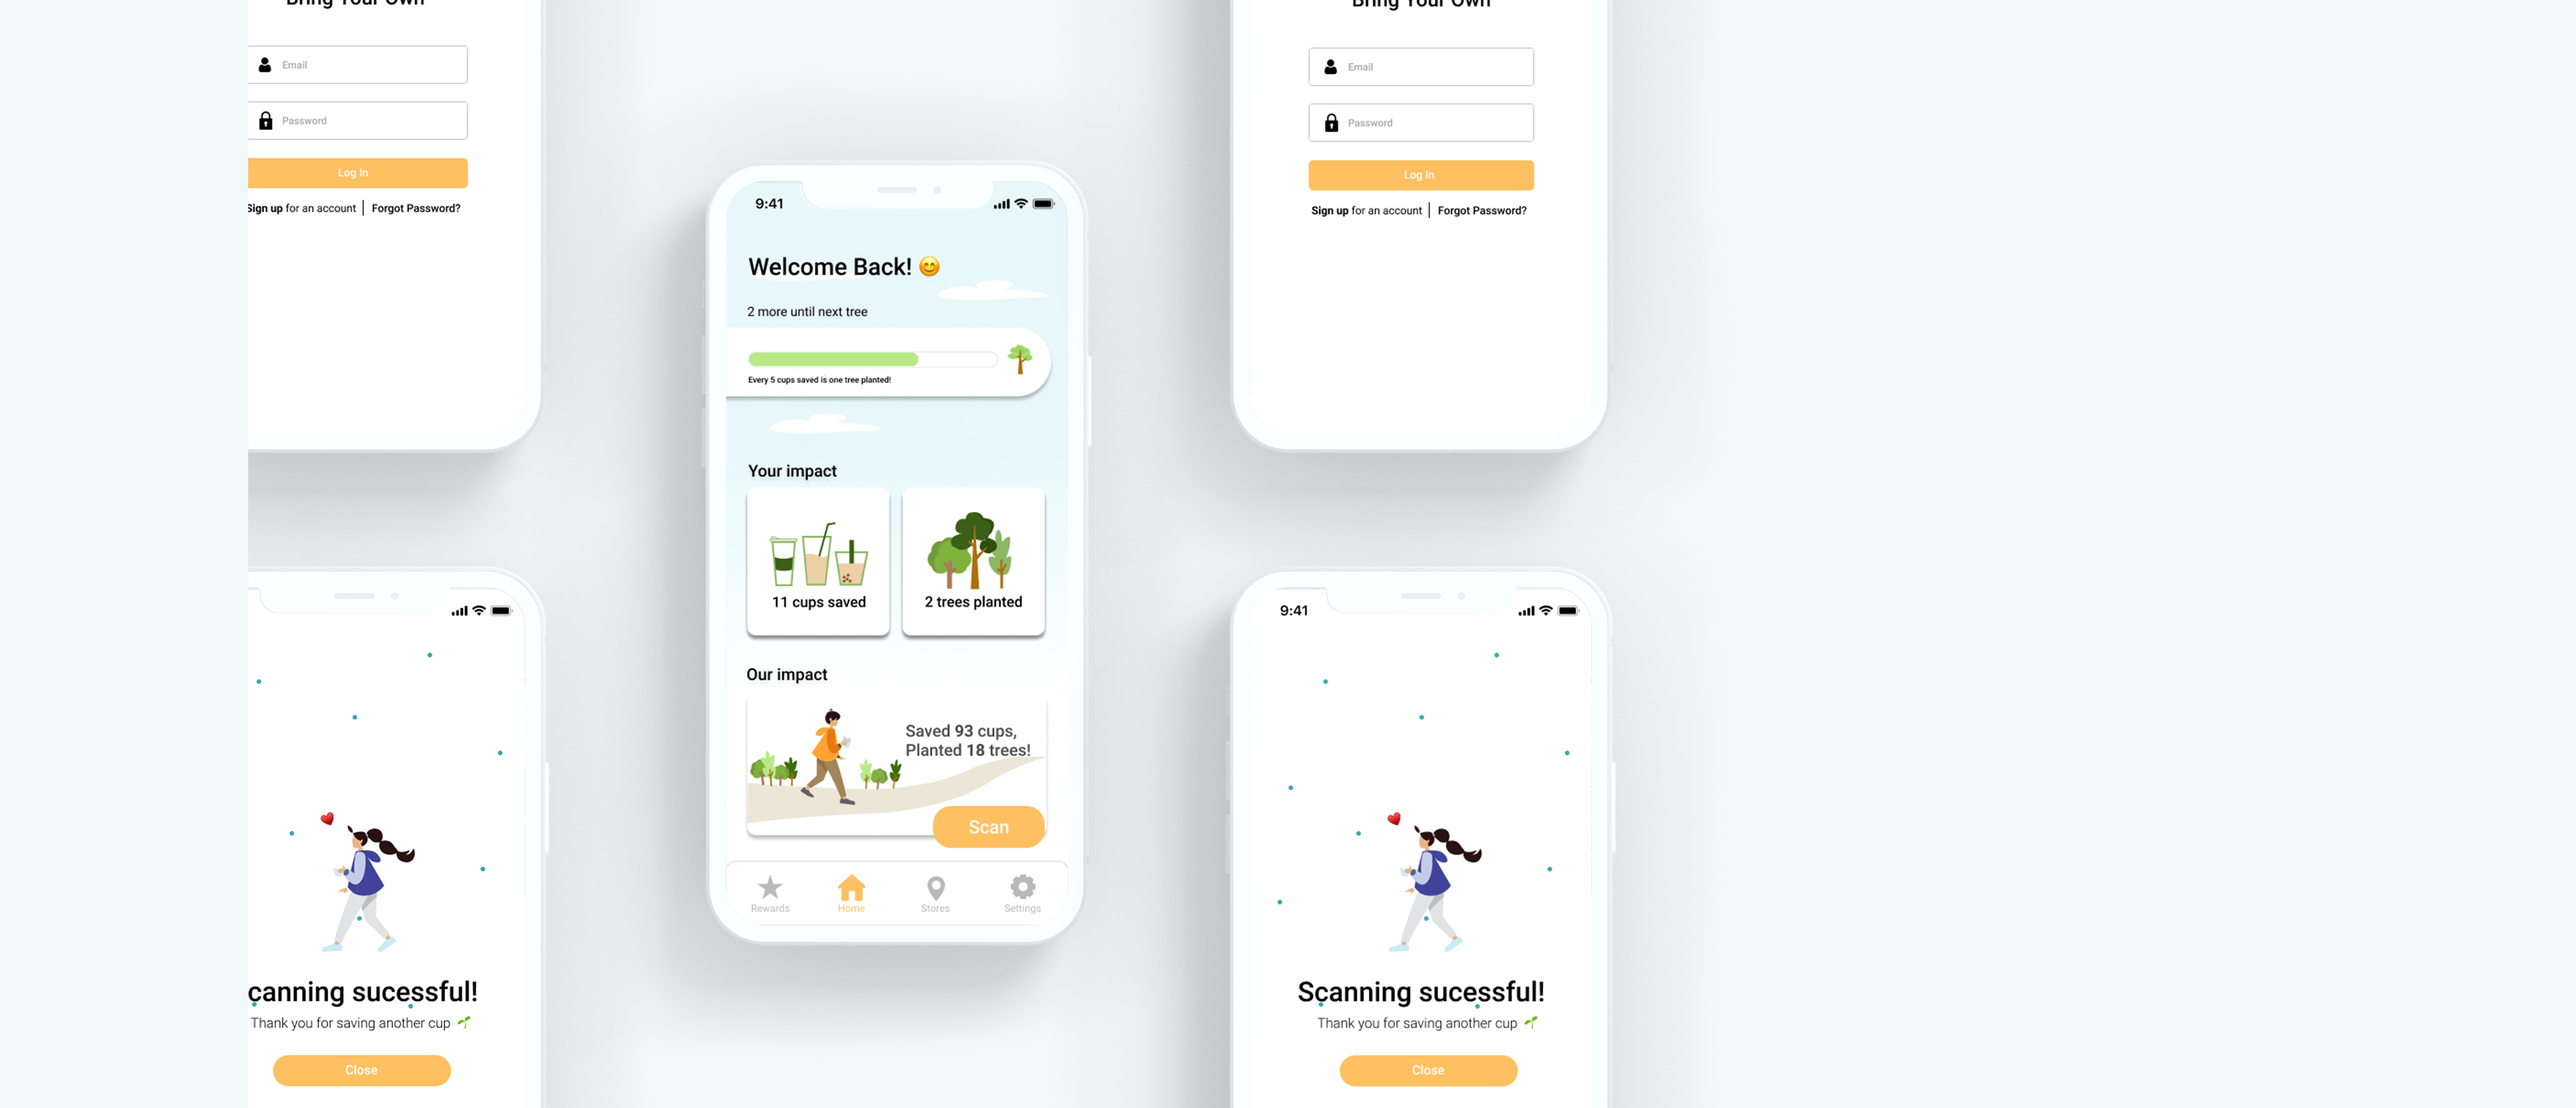
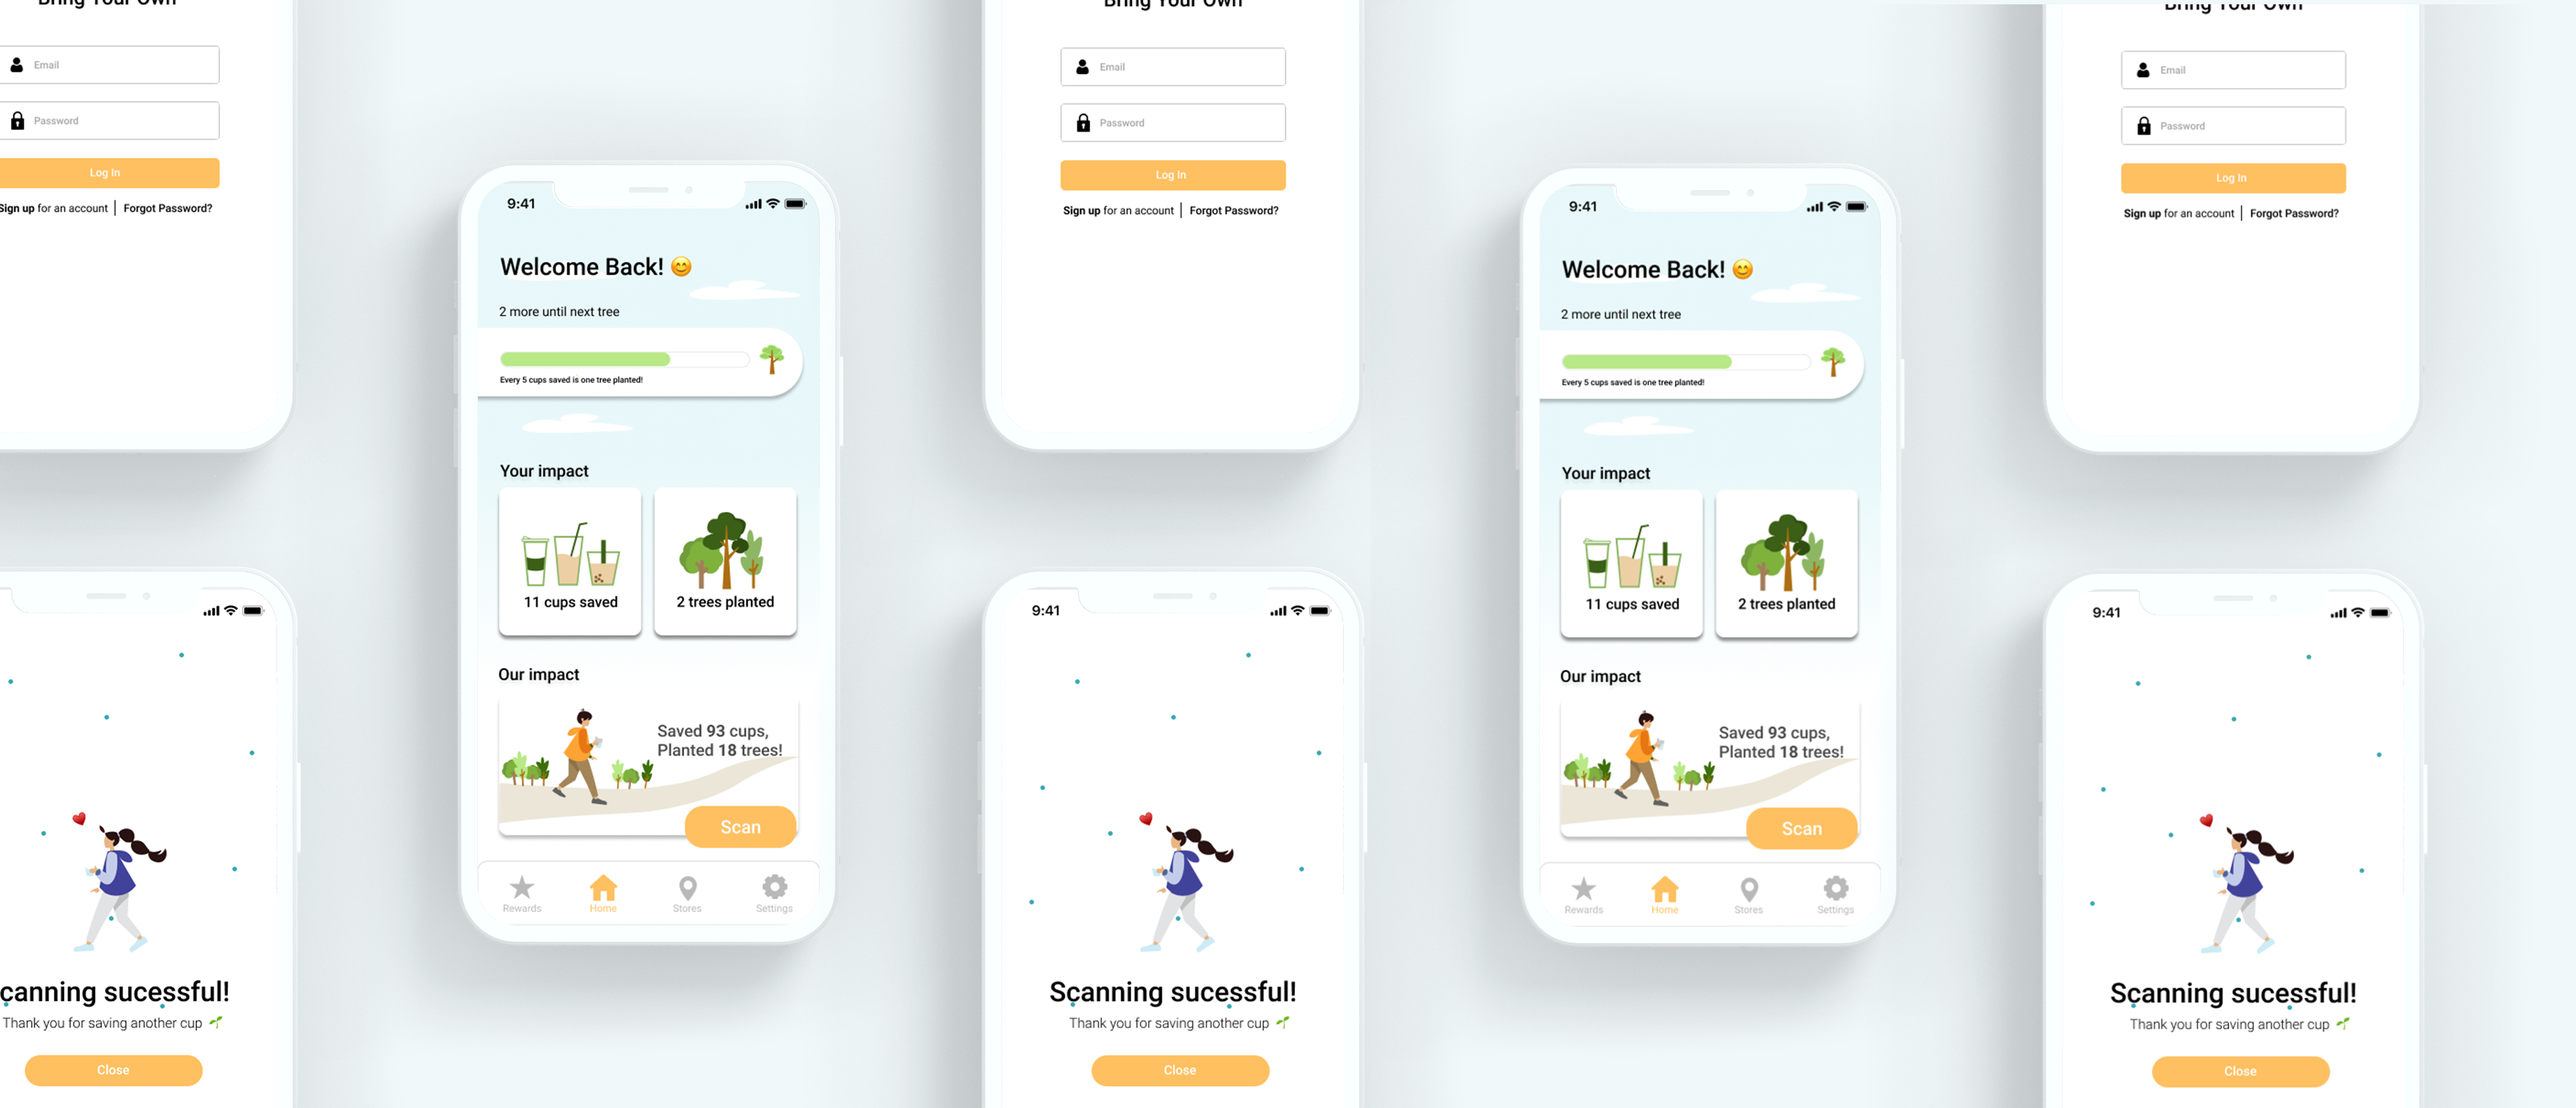
ll

diff --git a/project2.html b/project2.html
@@ -30,7 +30,7 @@
      <!--Preview image-->
 
      <div class= "preview">
-      <img src = "img/project22.png" alt= "preview" width = "850">
+      <img src = "img/project2.png" alt= "preview" width = "850">
     </div>
 
     <!--Starting overview section-->
